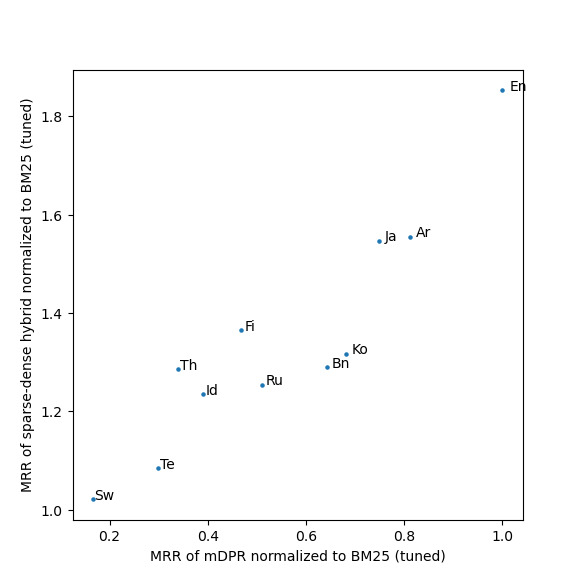
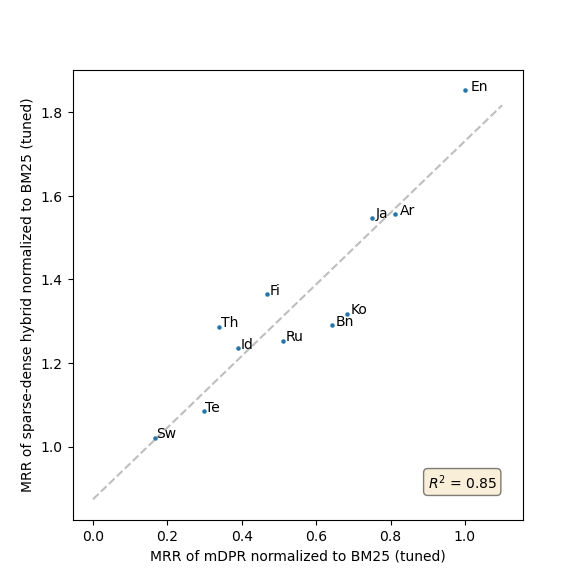
add linear regression + R^2 to the scatter plot;

diff --git a/analysis/plot_relative_score_bars.py b/analysis/plot_relative_score_bars.py
@@ -1,9 +1,9 @@
 import os
-import matplotlib.pyplot as plt
-from matplotlib import colors as mat_colors
-
+import numpy as np
 import pandas as pd
+import matplotlib.pyplot as plt
 
+from matplotlib import colors as mat_colors
 
 figsize=[8, 6]
 boxsize=[4.5, 4.5]
@@ -123,9 +123,45 @@ def scatter():
     lang_rel_scores = sorted(
         lang2rel_scores.items(), key=lambda kv: (kv[1]["mDPR"], kv[1]["hybrid"])
     )
+
+    x_s, y_s = [], []
     for i, (lang, rel_scores) in enumerate(lang_rel_scores):
         plt.scatter(rel_scores["mDPR"], rel_scores["hybrid"], s=5, color="tab:blue")
         plt.text(s=lang, x=rel_scores["mDPR"] * 1.015, y=rel_scores["hybrid"]) 
+        x_s.append(rel_scores["mDPR"])
+        y_s.append(rel_scores["hybrid"])
+        # print(rel_scores)
+    
+    # linear regression
+    x_s, y_s = np.array(x_s), np.array(y_s)
+    m, b = np.polyfit(x_s, y_s, 1)
+
+    # plot linear regression
+    x_s_to_plot = np.concatenate(([0.0], x_s, [x_s.max() + 0.1]))
+    lr_y_s_to_plot = m * x_s_to_plot + b
+    plt.plot(
+        x_s_to_plot, lr_y_s_to_plot, 
+        color="tab:grey",
+        linestyle="--", 
+        alpha=0.5,
+        # label="Linear Regression"
+    )
+
+    # R^2
+    # from sklearn.metrics import r2_score
+    # R_square = r2_score(x_s, y_s)
+    y_mean = y_s.mean()
+    lr_y_s = m * x_s + b  # pred y using linear regression
+    diff_lr = ((lr_y_s - y_s) ** 2).sum()
+    diff_mean = ((y_mean - y_s) ** 2).sum()
+    R_square = (diff_mean - diff_lr) / diff_mean
+    # print("R^2: ", R_square)
+    props = dict(boxstyle='round', facecolor='wheat', alpha=0.5)
+    plt.text(
+        s=f"$R^2$ = %.2f" % R_square, 
+        x=0.9, y=0.9,
+        bbox=props, 
+    ) 
 
     file_dir = os.path.dirname(__file__)
     plot_dir = os.path.join(file_dir, "plots")
@@ -139,5 +175,6 @@ def scatter():
 
 
 if __name__ == "__main__":
-    barplot()
-    # scatter()
+    # barplot()
+    scatter()
+    # pass
